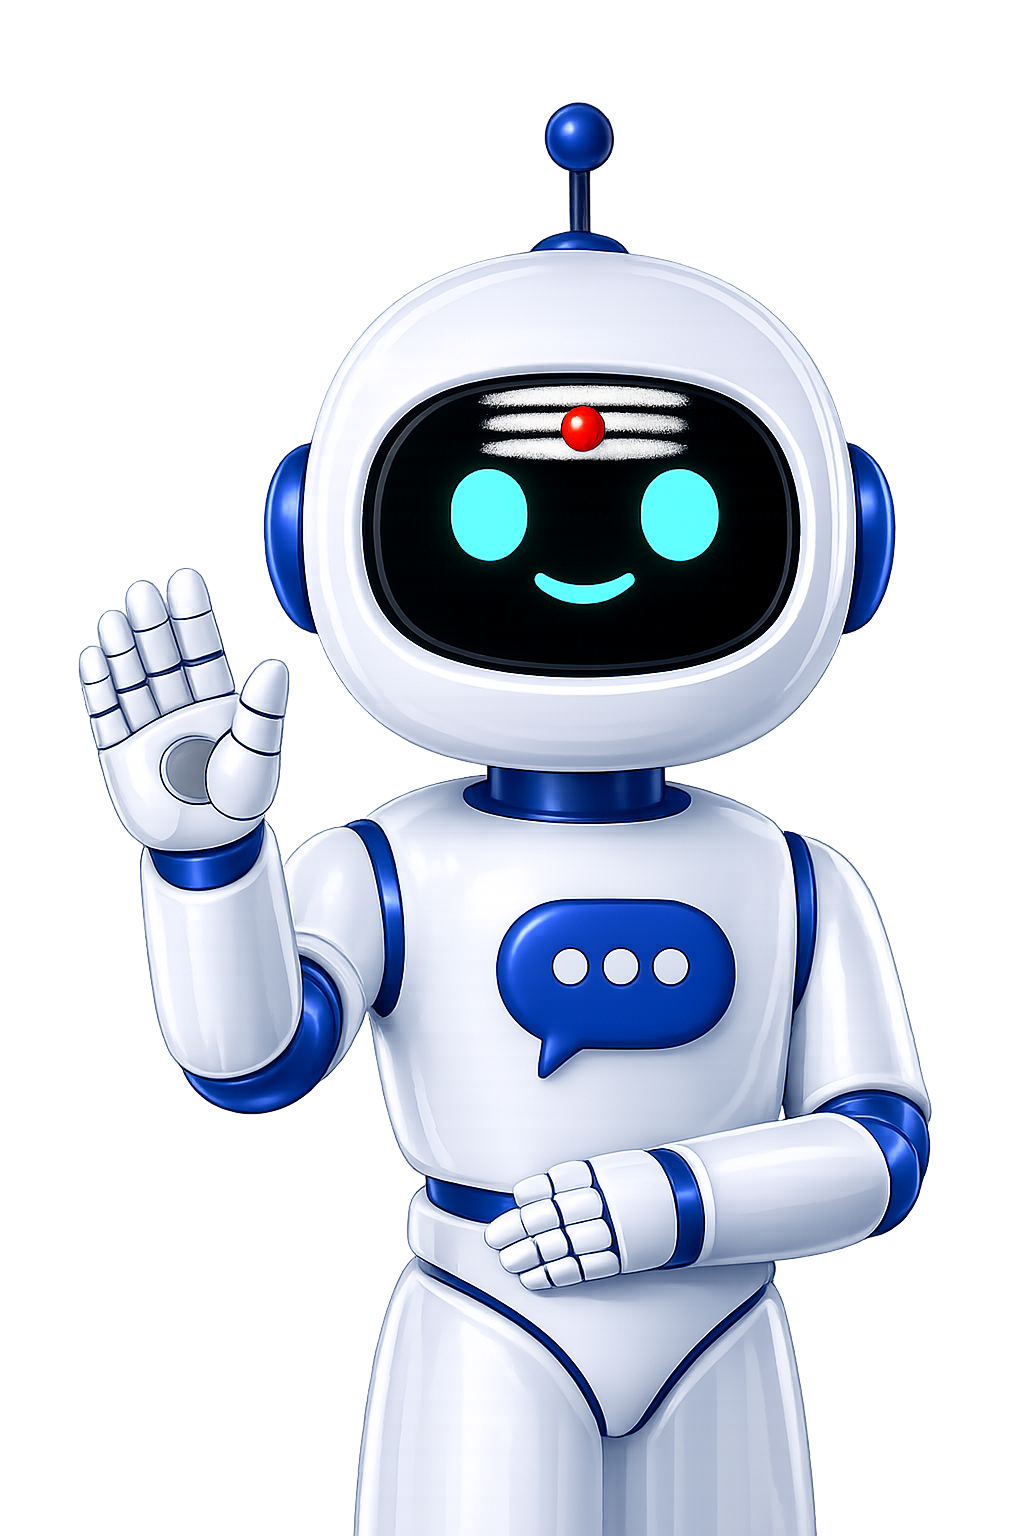
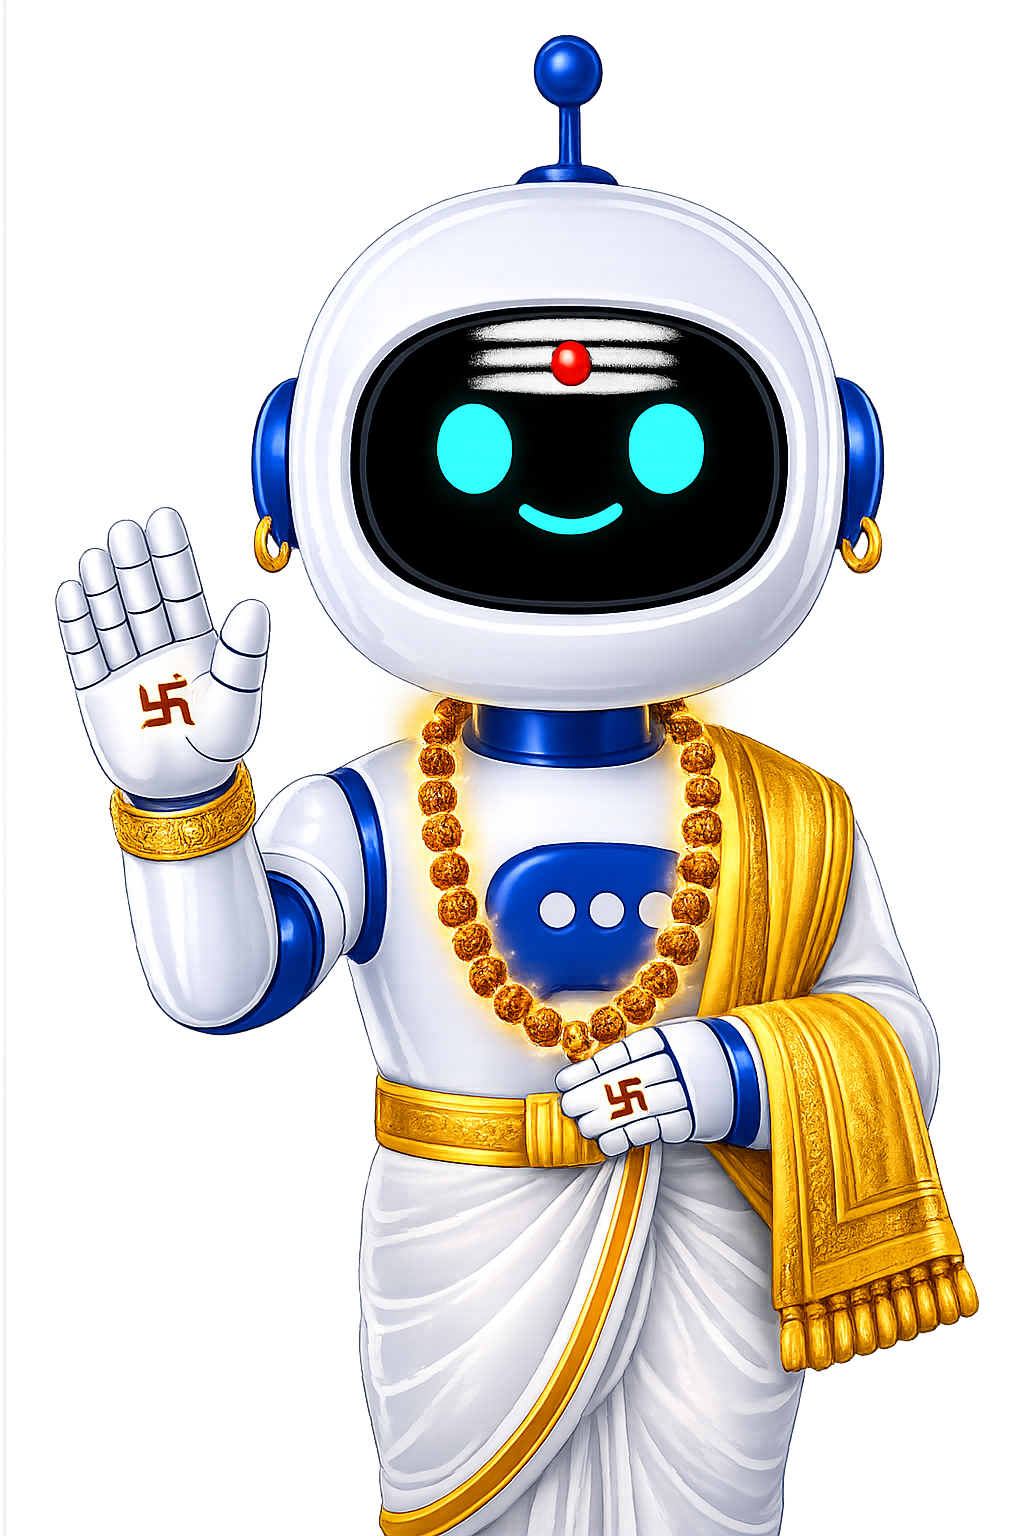
chore: update site assets and pages

diff --git a/index.html b/index.html
@@ -109,12 +109,17 @@
     .btn-geocode:hover{background:var(--gold-dim)}
     .coords-display{font-size:10px;color:var(--subtext);margin-top:3px;min-height:14px}
     .coords-display.ok{color:var(--green)} .coords-display.err{color:var(--red)}
-    .btn-calculate{margin-top:18px;width:100%;padding:10px 14px;
+    .btn-row{margin-top:18px;display:flex;gap:10px}
+    .btn-calculate{flex:1;padding:10px 14px;
       background:linear-gradient(135deg,#6b3a00,#d4a843,#6b3a00);background-size:200% 100%;
       border:none;border-radius:10px;color:#000;font-size:12px;font-weight:700;
       font-family:'Cinzel',serif;letter-spacing:1.4px;cursor:pointer;transition:background-position .3s,transform .1s}
     .btn-calculate:hover{background-position:100% 0;transform:translateY(-1px)}
     .btn-calculate:disabled{opacity:.5;cursor:not-allowed;transform:none}
+    .btn-clear{padding:10px 18px;background:var(--surface2);border:1.5px solid var(--border);
+      border-radius:10px;color:var(--subtext);font-size:12px;font-weight:700;
+      font-family:'Cinzel',serif;letter-spacing:1px;cursor:pointer;transition:all .15s;white-space:nowrap}
+    .btn-clear:hover{border-color:var(--red);color:var(--red);background:rgba(224,85,85,.08)}
 
     /* ── RESULTS ── */
     #results{display:none}
@@ -413,9 +418,14 @@ function addLog(type,msg){
         </div>
 
       </div>
-      <button class="btn-calculate" onclick="calculate()" id="btnCalc">
-        ✨ జాతకం లెక్కించండి — CALCULATE HOROSCOPE
-      </button>
+      <div class="btn-row">
+        <button class="btn-calculate" onclick="calculate()" id="btnCalc">
+          ✨ జాతకం లెక్కించండి — CALCULATE
+        </button>
+        <button class="btn-clear" onclick="clearForm()" title="Clear all fields">
+          🗑️ Clear
+        </button>
+      </div>
     </div>
 
     <!-- Results -->
@@ -583,7 +593,8 @@ function addLog(type,msg){
 // ══════════════════════════════════════════════════════
 // CONSTANTS
 // ══════════════════════════════════════════════════════
-const GROQ_ENDPOINT = '/api/groq-chat';
+const GEMINI_KEY = 'AIzaSyAQ.Ab8RN6J7EL091LHqdi8au2ic4IsOXzg3QivX4r6y9kKwS0myqw';
+const GEMINI_ENDPOINT = `https://generativelanguage.googleapis.com/v1beta/openai/chat/completions`;
 
 const RASHIS = [
   {num:1, te:'మేషం',      en:'Aries',       abbr:'Ar'},
@@ -1045,10 +1056,10 @@ Give a structured reading with these sections (Telugu text first, English in bra
 **శుభ సమయాలు / Auspicious Guidance** - Key advice (1-2 lines)
 Keep each section concise and practical.`;
   try{
-    const res=await fetch(GROQ_ENDPOINT,{
+    const res=await fetch(GEMINI_ENDPOINT,{
       method:'POST',
-      headers:{'Content-Type':'application/json'},
-      body:JSON.stringify({model:'llama-3.3-70b-versatile',messages:[{role:'user',content:prompt}],max_tokens:500,temperature:0.7})
+      headers:{'Authorization':`Bearer ${GEMINI_KEY}`,'Content-Type':'application/json'},
+      body:JSON.stringify({model:'gemini-1.5-flash',messages:[{role:'user',content:prompt}],max_tokens:1200,temperature:0.7})
     });
     const json=await res.json().catch(()=>({}));
     if(!res.ok){
@@ -1106,13 +1117,13 @@ async function sendChat(){
   if(chatHistory.length>10) chatHistory=chatHistory.slice(-10);
 
   try{
-    const res=await fetch(GROQ_ENDPOINT,{
+    const res=await fetch(GEMINI_ENDPOINT,{
       method:'POST',
-      headers:{'Content-Type':'application/json'},
+      headers:{'Authorization':`Bearer ${GEMINI_KEY}`,'Content-Type':'application/json'},
       body:JSON.stringify({
-        model:'llama-3.3-70b-versatile',
-        messages:[{role:'system',content:systemPrompt},...chatHistory],
-        max_tokens:300,temperature:0.7
+        model:'gemini-1.5-flash',
+        messages:[{role:'user',content:systemPrompt+'\n\nUser: '+q}],
+        max_tokens:600,temperature:0.7
       })
     });
     const json=await res.json().catch(()=>({}));
@@ -1306,6 +1317,20 @@ async function downloadPDF(){
 // ══════════════════════════════════════════════════════
 // UTILITIES
 // ══════════════════════════════════════════════════════
+function clearForm(){
+  ['inpName','inpDob','inpTob','inpPlace','inpLat','inpLon'].forEach(id=>{
+    document.getElementById(id).value='';
+  });
+  document.getElementById('inpOffset').value='5.5';
+  const cd=document.getElementById('coordsDisplay');
+  cd.className='coords-display'; cd.textContent='Enter place and click Locate';
+  document.getElementById('results').style.display='none';
+  chatContext=null; chatHistory=[];
+  document.getElementById('chatMessages').innerHTML=`<div class="chat-msg bot">
+    <span class="te-msg">నమస్కారం! 🙏 జాతకం లెక్కించిన తర్వాత అడగవచ్చు.</span></div>`;
+  showToast('✅ వివరాలు క్లియర్ అయ్యాయి / Form cleared');
+}
+
 function showToast(msg,isErr=false){
   const t=document.getElementById('toast');
   t.textContent=msg;
@@ -1317,5 +1342,20 @@ function showToast(msg,isErr=false){
 // Init Panchang on load
 renderPanchang();
 </script>
+
+<footer style="text-align:center;padding:20px 16px 28px;border-top:1px solid rgba(212,168,67,.15);
+  margin-top:10px;font-size:11px;color:var(--subtext);line-height:2">
+  <div style="font-family:'Noto Sans Telugu',serif;font-size:12px;color:var(--gold);margin-bottom:4px">
+    🌟 సూర్య జ్యోతిష్యం
+  </div>
+  <div>
+    © <span id="cpYear"></span> Surya Jyothishyam · All Rights Reserved
+  </div>
+  <div style="margin-top:3px;font-size:10px;opacity:.6">
+    Vedic Astrology · పంచాంగం · జాతకం · Built with ❤️ for Telugu Community
+  </div>
+</footer>
+<script>document.getElementById('cpYear').textContent=new Date().getFullYear();</script>
+
 </body>
 </html>

diff --git a/login.html b/login.html
@@ -677,5 +677,11 @@ function showSuccess(type, name){
   setTimeout(()=>{ window.location.href='index.html'; }, 2200);
 }
 </script>
+
+<div style="text-align:center;padding:16px;font-size:10px;color:rgba(136,136,170,.5);
+  position:relative;z-index:1">
+  © <script>document.write(new Date().getFullYear())</script> సూర్య జ్యోతిష్యం · All Rights Reserved
+</div>
+
 </body>
 </html>